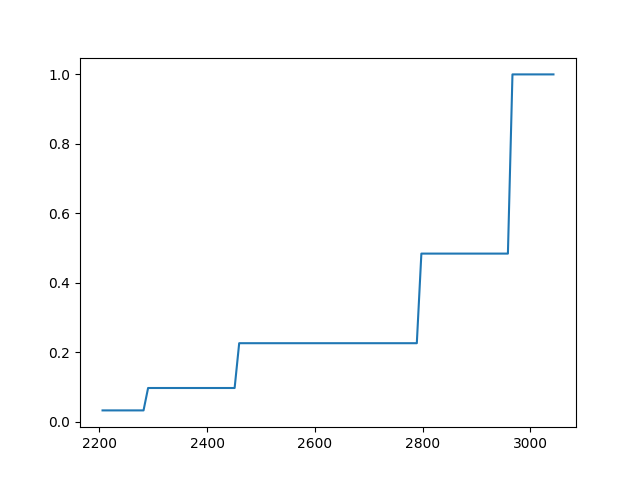
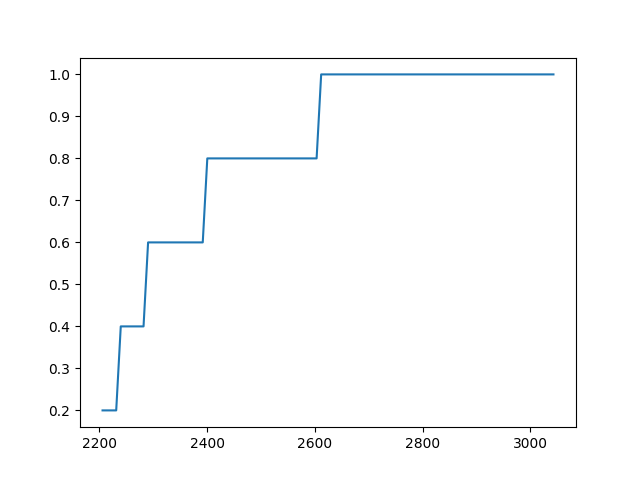
bojorques-serrano equidistant y lapses

diff --git a/static/wf.js b/static/wf.js
@@ -2,18 +2,10 @@ var layer_url = document.currentScript.getAttribute('layer_url');
 
 function wf_plot() {
 
-    var x1 = $('#x1').val(),
-	x2 = $('#x2').val(),
-	x3 = $('#x3').val(),
-	x4 = $('#x4').val(),
-	fp = $('#fp').val();
+    var fp = $('#fp').val();
 
     // update plot
-    document.getElementById("plot").src="/wf/plot/?x1=" + x1
-	+ "&x2=" + x2
-	+ "&x3=" + x3
-	+ "&x4=" + x4
-	+ "&fp=" + fp
+    document.getElementById("plot").src="/wf/plot/?fp=" + fp
 	+ "&min=" + range['min']
 	+ "&max=" + range['max'];
 }
@@ -31,8 +23,8 @@ function apply_wf(){
 
 function bojorquezSerrano(fp) {
     var categories = 5,
-	maximum = 1,
-	minimum = 0,
+	maximum = range['max'],
+	minimum = range['min'],
 	the_sum = 0;
 
     for (i=0; i<categories; i++) {
@@ -52,37 +44,29 @@ function bojorquezSerrano(fp) {
 }
 
 function wf(x){
-
-    var x1 = $('#x1').val(),
-	x2 = $('#x2').val(),
-	x3 = $('#x3').val(),
-	x4 = $('#x4').val(),
-	fp = $('#fp').val(),
-	wf_cuts = bojorquezSerrano(fp);
+    fp = $('#fp').val();    
+    cuts = bojorquezSerrano(fp);
+    
+    var x1 = cuts[1],
+	x2 = cuts[2],
+	x3 = cuts[3],
+	x4 = cuts[4];
 
     if (x < x1) {
-	return wf_cuts[1]
+	return 0.2
     } else if (x >= x1 && x < x2) {
-	return wf_cuts[2]
+	return 0.4
     } else if (x >= x2 && x < x3) {
-	return wf_cuts[3]
+	return 0.6
     } else if (x >= x3 && x < x4) {
-	return wf_cuts[4]
+	return 0.8
     } else if (x >= x4) {
-	return wf_cuts[5]
+	return 1.0
     }
 }
 
 
 function wf_args_from_range() {
-
-    diff = range['max'] - range['min']
-
-    $('#x1').val(range['min'] + 0.1 * diff);
-    $('#x2').val(range['min'] + 0.3 * diff);
-    $('#x3').val(range['min'] + 0.7 * diff);
-    $('#x4').val(range['min'] + 0.9 * diff);
-
     $('#fp').val(2);
 }
 
@@ -94,4 +78,23 @@ function update_to(url) {
     wf_plot();
 }
 
+
+function latex_equation() {
+    var fp = $('#fp').val();
+
+    var a = $('#a').val(),
+	center = $('#center').val();
+    
+    return `$$ fv(x)=e^{-\\left(\\frac{x-${center}}{${a}}\\right)^{2}} $$`;
+}
+
+
+function update_equation() {
+    $('#MathExample').text(latex_equation());
+    var math = document.getElementById("MathExample");
+    MathJax.Hub.Queue(["Typeset", MathJax.Hub, math]);
+}
+
 update_to(layer_url);
+update_equation();
+

diff --git a/templates/wf.html b/templates/wf.html
@@ -2,33 +2,6 @@
 
 {% block form %}
 <div class="ui form" id="args">
-  <div class="field">
-    <label>x-cut 1</label>
-    <div class="ui left icon input">
-      <input placeholder="1" id="x1" value="0.1">
-    </div>
-  </div>
-
-  <div class="field">
-    <label>x-cut 2</label>
-    <div class="ui left icon input">
-      <input placeholder="1" id="x2" value="0.3">
-    </div>
-  </div>
-
-  <div class="field">
-    <label>x-cut 3</label>
-    <div class="ui left icon input">
-      <input placeholder="1" id="x3" value="0.7">
-    </div>
-  </div>
-
-  <div class="field">
-    <label>x-cut 4</label>
-    <div class="ui left icon input">
-      <input placeholder="1" id="x4" value="0.9">
-    </div>
-  </div>
   
   <div class="field">
     <label>FP</label>

diff --git a/server.py b/server.py
@@ -37,18 +37,18 @@ def bojorquezSerrano(fp, categories=5, maximum=1.0, minimum=0.0):
     return cuts
 
 
-def wf(t, x_cuts, fp):
-    wf_cuts = bojorquezSerrano(fp)
-    if t < x_cuts[0]:
-        return wf_cuts[1]
-    elif t >= x_cuts[0] and t < x_cuts[1]:
-        return wf_cuts[2]
+def wf(t, fp, min_v, max_v):
+    x_cuts = bojorquezSerrano(fp, minimum=min_v, maximum=max_v)
+    if t < x_cuts[1]:
+        return 0.2
     elif t >= x_cuts[1] and t < x_cuts[2]:
-        return wf_cuts[3]
+        return 0.4
     elif t >= x_cuts[2] and t < x_cuts[3]:
-        return wf_cuts[4]
-    elif t >= x_cuts[3]:
-        return wf_cuts[5]
+        return 0.6
+    elif t >= x_cuts[3] and t < x_cuts[4]:
+        return 0.8
+    elif t >= x_cuts[4]:
+        return 1.0
 
 
 def linear(x, m, b):
@@ -105,17 +105,12 @@ def logistic_plot():
 @app.route("/wf/plot/")
 def wf_plot():
 
-    x_cuts = [0, 0, 0, 0]
-    x_cuts[0] = float(request.args.get('x1', 0.1))
-    x_cuts[1] = float(request.args.get('x2', 0.3))
-    x_cuts[2] = float(request.args.get('x3', 0.7))
-    x_cuts[3] = float(request.args.get('x4', 0.9))
     fp = float(request.args.get('fp', 2))
     min_v = float(request.args.get('min', 0))
     max_v = float(request.args.get('max', 1))
 
     x = numpy.linspace(min_v, max_v, 100)  # 100 linearly spaced numbers
-    y = [wf(t, x_cuts, fp) for t in x]
+    y = [wf(t, fp, min_v=min_v, max_v=max_v) for t in x]
 
     fig = Figure()
     ax = fig.add_subplot(111)
